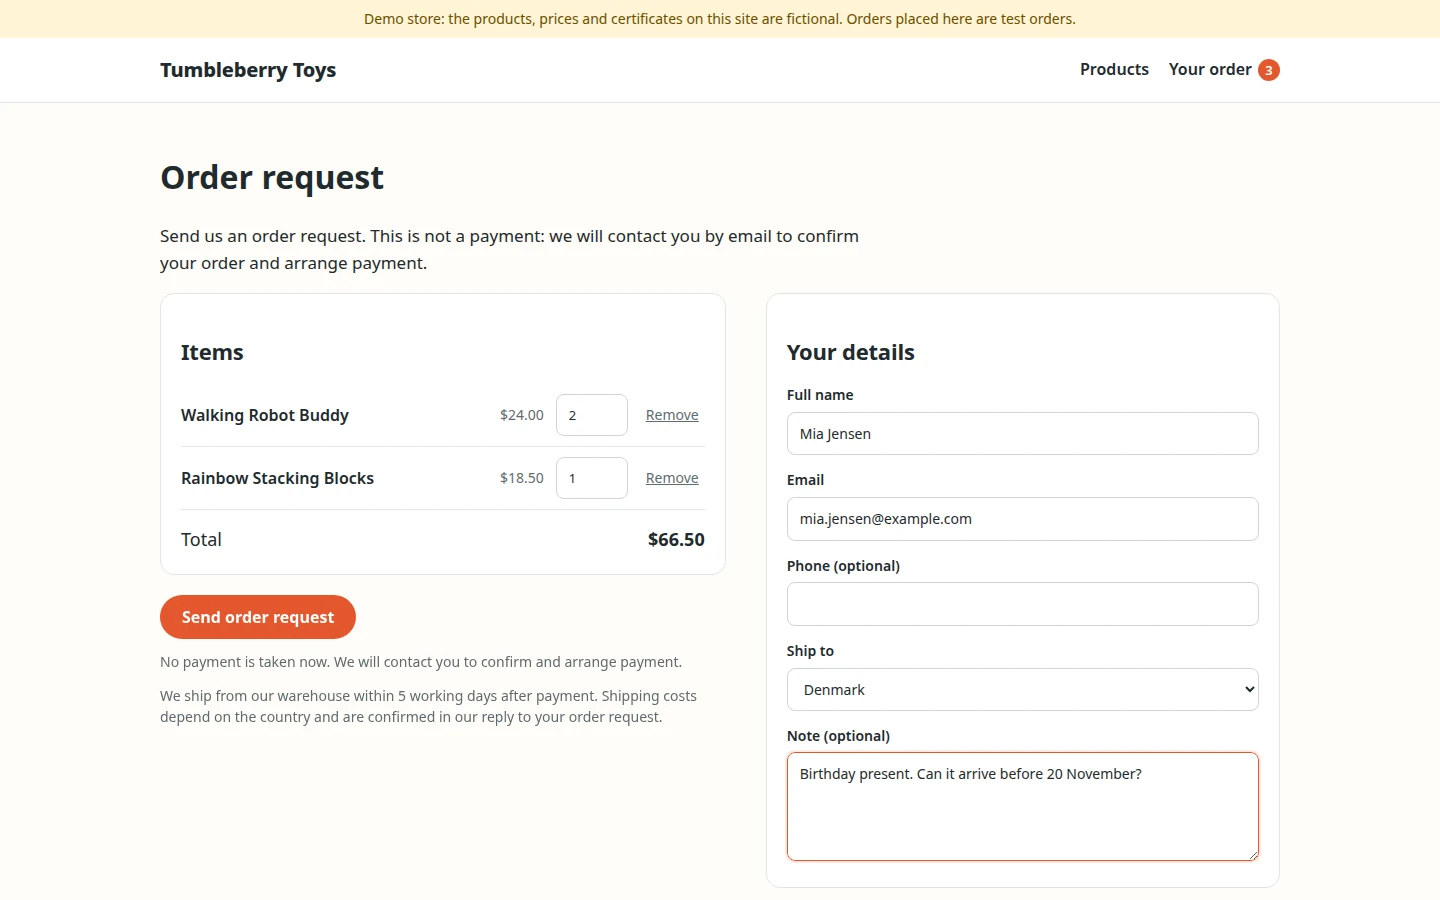
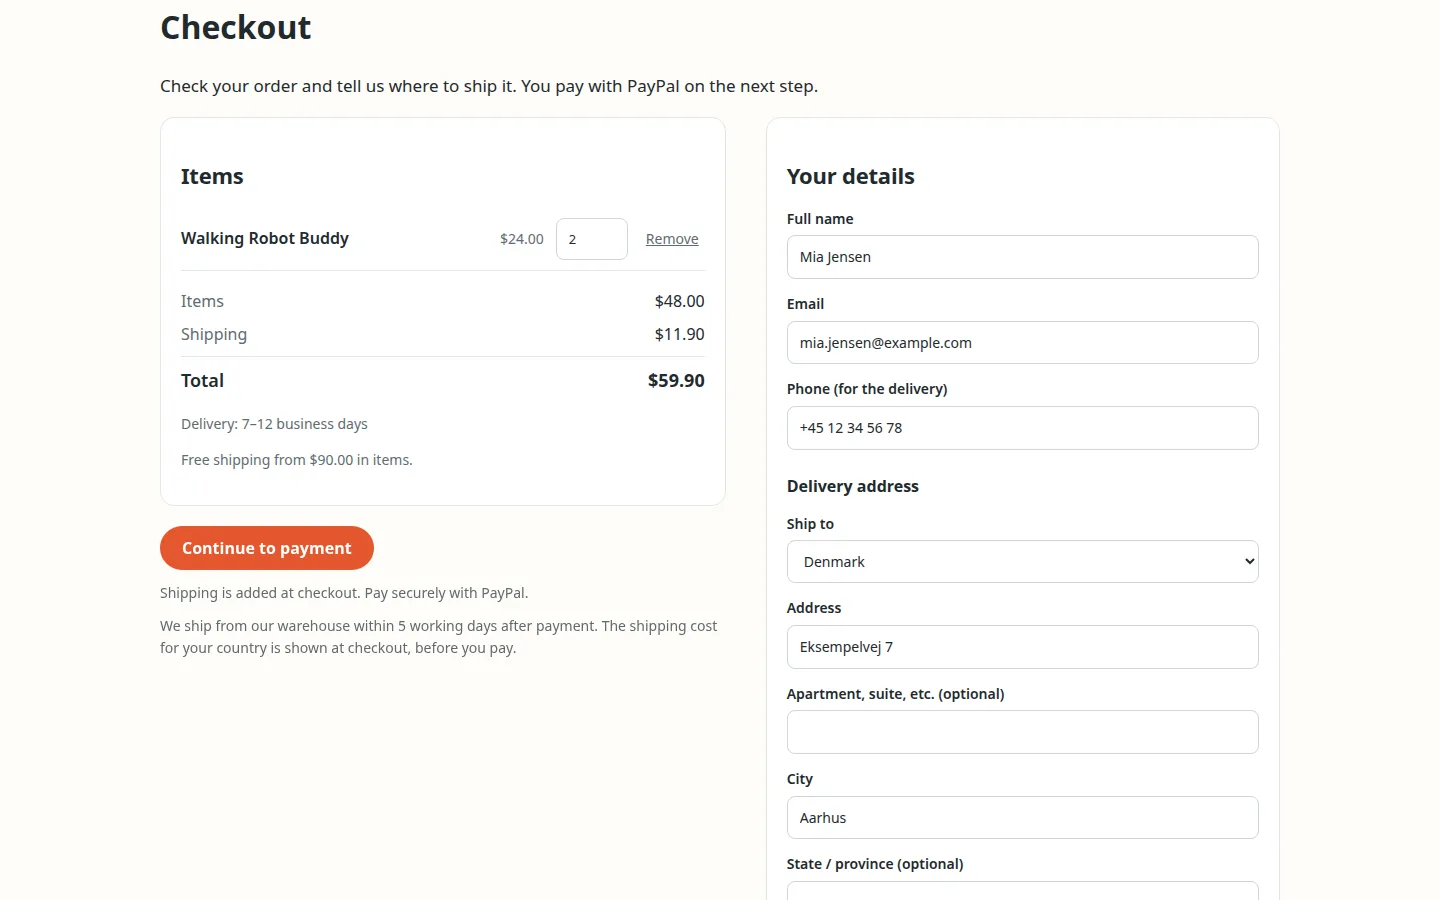
chore: busa-shop 0.6.0, checkout gallery shots, changelog and catalog

diff --git a/CHANGELOG.md b/CHANGELOG.md
@@ -2,6 +2,7 @@
 
 ## Unreleased
 
+- busa-shop 0.6.0: a real checkout, so the shop takes money ("起码像 Shopify 的网店"). Checkout asks for what a parcel needs (name, email, phone, full address; a state where the country needs one, a postal code where there is one), offers only countries in Settings › Ships to that have a row in the new **Shipping** table (zone, countries, cost, free from an items total, delivery time), adds that cost, and recomputes everything on the server from Products and Shipping. With Settings › PayPal `sandbox` or `live`, a client ID in Settings and `BUSA_SHOP_PAYPAL_CLIENT_SECRET` in the Space Vault (read at runtime through `GET /api/v1/vault/runtime` with the site's own key, never stored in a table), the order is saved as `awaiting-payment`, its pay page `/pay/<order id>` shows PayPal's own JavaScript SDK v6 button, and the Worker creates and captures the PayPal order itself (Orders v2, our order id as `custom_id`, the amount from the row), marking the order `paid` at capture, in the members-only preview as on the live site. PayPal webhooks (`/api/paypal/webhook`, after Go live) are each verified with `verify-webhook-signature` on the raw body, matched by our order id or the capture id, checked for amount and currency, applied once (event id in Payment log), and record refunds, reversals, denials, late captures and buyers who closed the window. Without PayPal (and on the Free plan's browser preview, which tells the owner why) checkout keeps taking order requests. **Orders** gains a lifecycle (`new`, `awaiting-payment`, `confirmed`, `paid`, `shipped`, `completed`, `cancelled`, `refunded`, `payment-problem`), the address, subtotal, shipping, PayPal ids, amount paid, refunds, a payment problem sentence, Payment and Email logs, a staff Tracking number, and the views To ship, Awaiting payment and Payment problems. The website emails over the owner's own SMTP mailbox (a small client on Cloudflare's `connect()`, implicit TLS or STARTTLS; `BUSA_SHOP_SMTP_PASSWORD` in the Vault; QQ Mail's smtp.qq.com:465 and 授权码 as the documented default): a receipt and "new paid order", or "request received" (only the shop's own data) and "new order request", or a payment problem to the owner, in the store's language, after the order is saved and never in its way. A new **Pages** table holds five published policy pages (Shipping, Returns & warranty, Privacy, Terms, Contact) in small Markdown with 【fill in …】 markers, linked in the footer and the sitemap, and a hidden draft Legal notice. The manual gains "Payments and orders (收款与订单)" (setting up PayPal from sandbox to live, webhooks only after Go live, emails, shipping, policy pages, "Selling legally (法律合规)" with official sources, shipping a paid order, payment problems) and its rules: never mark paid without PayPal, never refund, never touch the Vault. The daily check reports orders to ship, payments waiting over a day, payment problems, failed emails, ships-to countries without a rate, unfinished policy pages and an unready checkout. `schemaVersion` 4.
 - busa-shop 0.5.0: product management is built in, so one install is a whole online shop and Busa Product Hub is no longer needed ("busa-shop 应该要内置了商品管理，没必要独立 product-hub … 一键安装一个线上商城的模板啊！"). The folder gains its own **Products** (plain columns an owner edits in the grid: Name, Product ID, Status On sale / Draft / Off sale, Price, Currency, Stock, Category, Brand, Model, Subtitle, Image URL, More photos one per line, Description, Highlights one per line, Specs as one `Label: value` per line, Warranty, Returns, SKU, Tags, Position, and the owner-only Cost, Source and Notes) and **Certificates** (the product hub's fields and types), with On sale / All products views that put Price next to the name and node prompts for 导入商品, 改价格, 下架商品, 上架商品 and "which products are on my website". The website reads them by default: one Status lists a product (no Lifecycle), an empty Currency means the shop's, Specs lines become the product page's Details (known labels in the store language's words and order, English and common Chinese labels recognised, the owner's own labels shown as written after them; the trade keys stay hidden), and `/api/status` says `productsFrom`. Settings › Products table still points the shop at a product hub (or any compatible table), read in the hub's shape with its certificates and AirApp pictures, and a shop installed before 0.5.0, which has no Products of its own, keeps selling from Busa Product Hub with nothing to change. The importer moves back here as `scripts/import-products.mjs` (busa-product-hub keeps a byte-identical copy, checked by a test): it writes the table the website sells from (Settings › Products table, else the shop's own Products, else the product hub of an older shop; `--products-base` overrides) and names it on the preview's first line. Into the shop's table it maps a sheet's Status and Lifecycle to one Status (在售 → active, 草稿/test → draft, 下架/archive → archive), shopper specs to Specs lines and supplier, trade terms and unknown columns (官方售价, 备注) to Notes, merges Specs and Notes by label without ever removing the owner's lines, keeps Excel pictures, Chinese headers, the dry run and `--write-template`, recognises a picture already on a product by its bytes so a second run uploads nothing, and checks prices against the shop's currency in the preview. The manual gains "Manage products (商品管理)" (bring products in any way, change a price, take products off sale or put them on sale, certificates, sell from a product hub instead), "Open the shop" starts with one install and the toy import into the shop's own tables, and the daily check reads the table the website sells from. The importer's template sheet now says where unknown columns go in each table; `schemaVersion` 3.
 - busa-product-hub 0.5.3: says that Busa Shop no longer needs it and how to point a shop's Settings › Products table at it; its `scripts/import-products.mjs` is now a copy of busa-shop's, which writes this hub only when no shop has its own Products, the shop's Settings name this table, or `--products-base` says so. The description drops 把商品放进店 (the shop's phrase now) and stays under 1,024 characters.
 - busa-product-hub 0.5.2, busa-shop 0.4.1: an Agent finds the two manuals with the owner's own words. Busabase's `playbooks search` matches each phrasing as a substring of a skill's name, slug and SKILL.md description and of node prompt labels, never of display names, so in a lesson rehearsal 「产品枢纽」, 「下架」, "import Excel" and "import products from Excel" found nothing. The hub's description now calls it Busa 产品枢纽 and says 商品管理, 导入商品, 导入 Excel 商品表, 把商品放进店, 上架, 下架, 归档商品, import products from Excel, product list, spreadsheet, CSV and catalog, in 1,008 characters (it was 1,094, over the Agent Skills limit of 1,024); busa-shop's says 产品枢纽, 网店, 把商品放进店, 上架, 下架 and 商品表. The import prompts gain zh-CN labels (导入商品表（Excel 或 CSV，含图片）, 导入商品：Excel、价目表或商品页, 把商品放进店（导入商品表）), Products gains a 下架商品（归档） prompt, and busa-shop's `test/skill-discoverability.test.mjs` checks these words with Busabase's matching rule.
